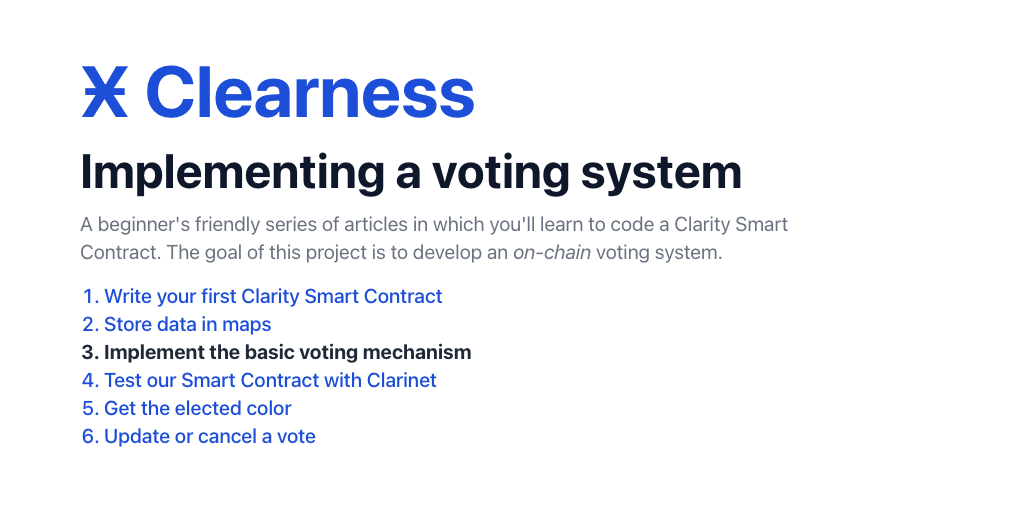
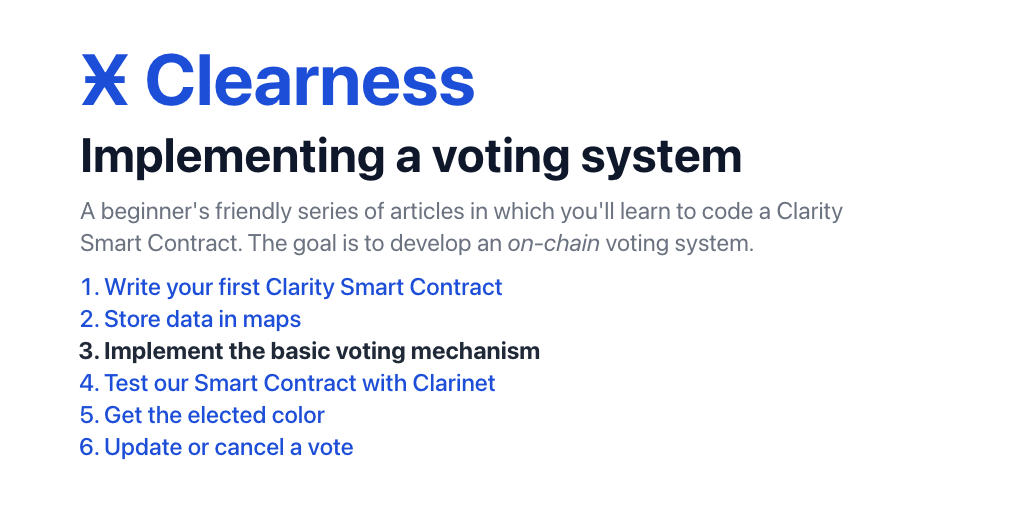
bigger text on og-images

Changed region(s): [[0.0625, 0.25, 0.8438, 0.9062], [0.0625, 0.0938, 0.4688, 0.25]]

diff --git a/app/components/og-img.tsx b/app/components/og-img.tsx
@@ -8,7 +8,7 @@ type Props = {
 }
 
 const Title = () => (
-  <h1 className="text-7xl !font-bold mb-5 text-blue-700">Ӿ Clearness</h1>
+  <h1 className="text-7xl !font-bold mb-4 text-blue-700">Ӿ Clearness</h1>
 )
 
 const Container = ({ children }: { children: JSX.Element[] | JSX.Element }) => (
@@ -41,17 +41,17 @@ export function OgImagePosts({ chapter, index }: Props) {
       <h2 className="text-5xl !font-bold mb-4">{title}</h2>
 
       <div
-        className="max-w-3xl text-xl text-gray-500"
+        className="max-w-3xl text-2xl text-gray-500"
         dangerouslySetInnerHTML={{ __html: marked(description) }}
       />
 
-      <ol className="mt-4 ml-6 list-decimal">
+      <ol className="mt-3 ml-6 list-decimal">
         {posts
           .filter(({ wip }) => !wip)
           .map((p, i) => (
             <li
               key="slug"
-              className={`text-xl font-medium ${
+              className={`text-2xl font-medium ${
                 i === index ? 'font-bold text-gray-800' : 'text-blue-700'
               }`}
             >
@@ -66,13 +66,13 @@ export function OgImagePosts({ chapter, index }: Props) {
 export function OgImageIndex() {
   return (
     <Container>
-      <p className="text-2xl mb-5">
+      <p className="text-4xl mt-12 mb-14">
         Learn to code Smart Contracts on Bitcoin thanks to
         <br />
         Stacks and the <span className="font-semibold">Clarity Language.</span>
       </p>
 
-      <p className="text-3xl font-bold">
+      <p className="text-4xl font-bold">
         <Htag>Web3</Htag> <Htag>DAO</Htag> <Htag>NFT</Htag> <Htag>Clarity</Htag>{' '}
         <Htag>Stacks</Htag> <Htag>Bitcoin</Htag>
       </p>

diff --git a/app/routes/__posts/01-voting-clarity-smart-contract/index.md b/app/routes/__posts/01-voting-clarity-smart-contract/index.md
@@ -1,6 +1,6 @@
 ---
 title: Implementing a voting system
-description: A beginner's friendly series of articles in which you'll learn to code a Clarity Smart Contract. The goal of this project is to develop an *on-chain* voting system.
+description: A beginner's friendly series of articles in which you'll learn to code a Clarity Smart Contract. The goal is to develop an *on-chain* voting system.
 posts:
   01-getting-started:
     title: Write your first Clarity Smart Contract
